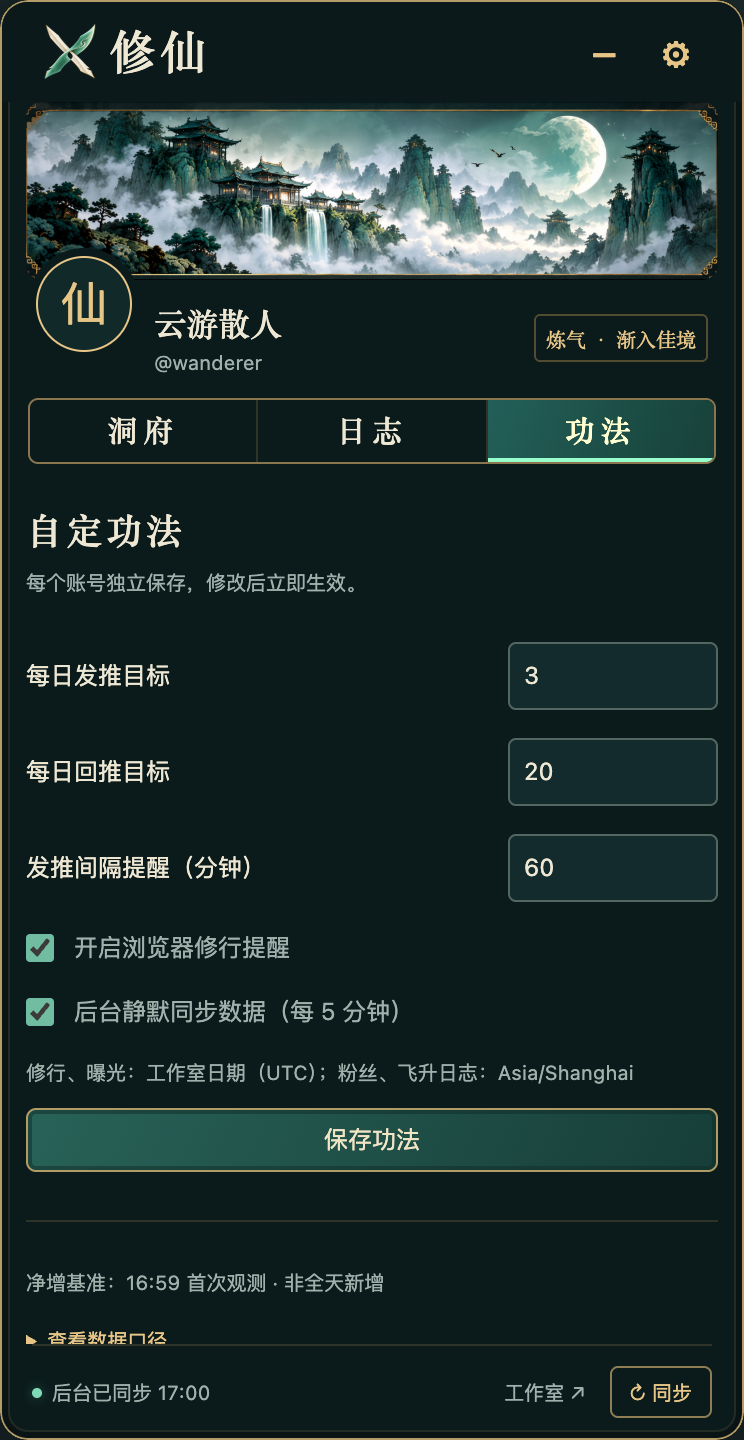
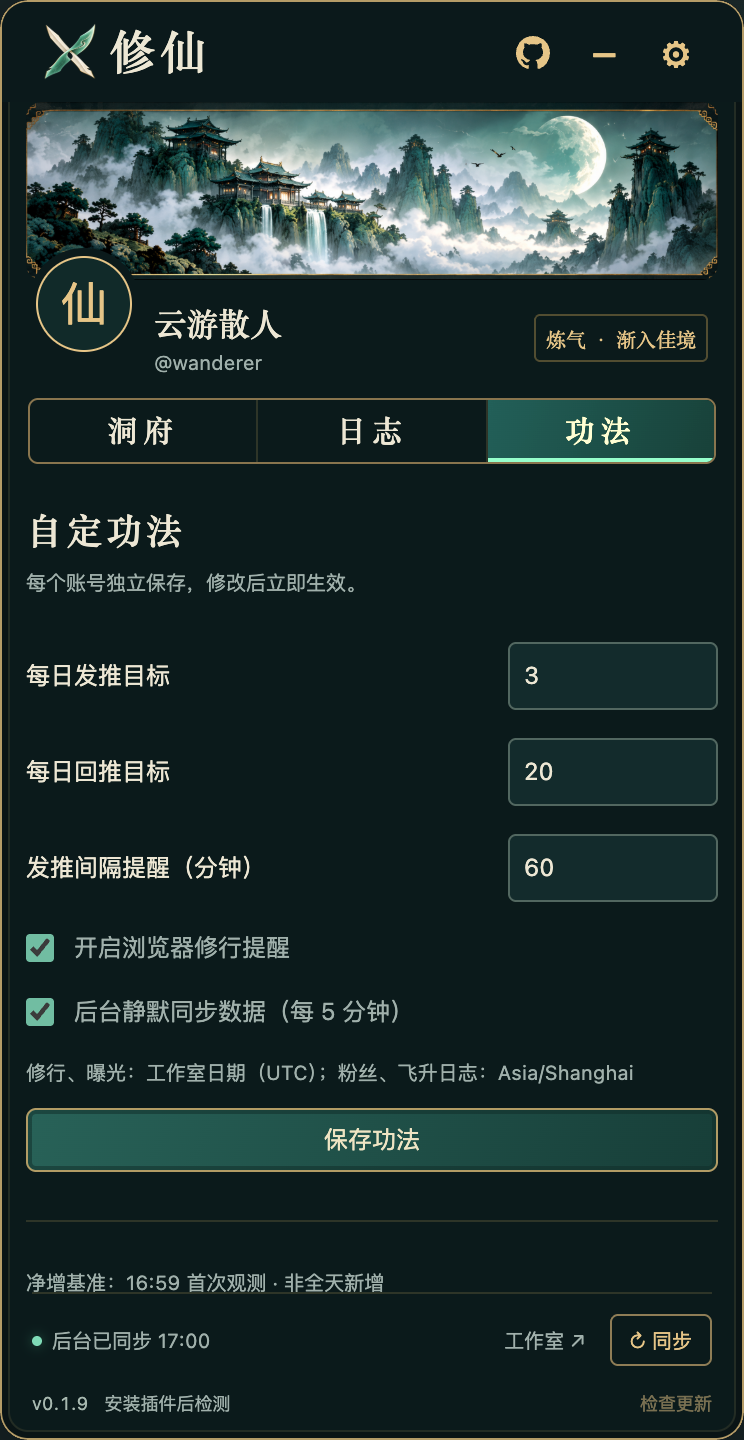
feat: add author GitHub link and automatic update checks

Changed region(s): [[0.6801, 0.9062, 0.9583, 1.0], [0.0309, 0.9062, 0.3091, 1.0], [0.6801, 0.0, 0.7419, 0.0625]]

diff --git a/extension/panel.js b/extension/panel.js
@@ -8,6 +8,24 @@
   let fitFrame=0,lastFitHeight=0;
   function fitPanel(){cancelAnimationFrame(fitFrame);fitFrame=requestAnimationFrame(()=>{const shell=$('shell'),main=$('scroll'),view=$(tab);if(!shell||!main||!view||shell.hidden)return;const style=getComputedStyle(main);const content=view.getBoundingClientRect().height+parseFloat(style.paddingTop)+parseFloat(style.paddingBottom);const fixed=shell.getBoundingClientRect().height-main.getBoundingClientRect().height;const height=Math.ceil(content+fixed);if(Math.abs(height-lastFitHeight)>1){lastFitHeight=height;tell({type:'resize',height});}});}
   const text=(id,value)=>{const el=$(id);if(el)el.textContent=value;};
+  let checkingUpdate=false,updateRequested=false;
+  const installedVersion=globalThis.chrome?.runtime?.getManifest?.().version||'0.1.9';
+  text('installed-version','v'+installedVersion);
+  async function checkUpdates(force=false){
+    if(checkingUpdate)return;
+    if(!globalThis.chrome?.runtime?.id){text('update-status','安装插件后检测');$('update-check').disabled=true;return;}
+    checkingUpdate=true;updateRequested=true;$('update-check').disabled=true;text('update-status','正在检查…');
+    try{
+      const response=await chrome.runtime.sendMessage({type:'checkUpdates',force});if(!response?.ok)throw new Error();
+      const r=response.data,available=r.status==='available';
+      text('installed-version','v'+r.currentVersion);$('update-download').hidden=!available;
+      if(available){$('update-download').href=r.downloadURL||r.releaseURL;text('update-download','v'+r.latestVersion+' ↗');$('update-download').title='下载新版，解压后替换原插件文件并重新加载';}
+      text('update-status',r.failed?(available?'上次发现新版':'检查失败，可重试'):available?'发现新版':r.status==='current'?'已是最新版本':'检查失败，可重试');
+      $('update-bar').classList.toggle('has-update',available);
+      $('update-check').title=r.checkedAt?'上次成功检查：'+new Date(r.checkedAt).toLocaleString('zh-CN'):'检查 GitHub 最新正式版本';
+    }catch{text('update-status','检查失败，可重试');}
+    finally{checkingUpdate=false;$('update-check').disabled=false;}
+  }
   const setProgress=(id,value,max)=>{const p=$(id);p.max=max;p.value=Math.min(value||0,max);};
   function render(data){
     state=data;$('locked').hidden=true;
@@ -62,11 +80,12 @@
     if((e.source!==null&&e.source!==parent)||e.data?.source!=='xian-parent-v1'||(channel?e.data.channel!==channel:false)||!(/^https:\/\/(x|twitter)\.com$/.test(e.origin)||/^http:\/\/(localhost|127\.0\.0\.1):\d+$/.test(e.origin)||(channel&&(e.origin==='null'||e.origin===location.origin))))return;
     parentOrigin=e.origin==='null'?null:e.origin;const m=e.data;
     if(m.type==='state')render(m.data);
-    else if(m.type==='collapsed'){const wasHidden=$('shell').hidden;$('shell').hidden=m.value;$('orb').hidden=!m.value;if(wasHidden&&!m.value){lastFitHeight=0;fitPanel();}}
+    else if(m.type==='collapsed'){const wasHidden=$('shell').hidden;$('shell').hidden=m.value;$('orb').hidden=!m.value;if(wasHidden&&!m.value){lastFitHeight=0;fitPanel();checkUpdates();}else if(!m.value&&!updateRequested)checkUpdates();}
     else if(m.type==='locked'){state=null;text('name','静候道友');text('handle','等待 X 登录账号');$('locked').hidden=false;$('avatar').hidden=true;$('avatar').removeAttribute('src');$('avatar-fallback').hidden=false;for(const id of ['total-views','followers','follower-delta'])text(id,'—');text('posts','—');text('replies','—');setProgress('posts-progress',0,3);setProgress('replies-progress',0,20);text('daily-qualified','待读取');text('qualified90','— / 50W 曝光');text('reward-percent','待读取');$('status-dot').classList.remove('active');text('verified-followers','— / 500');setProgress('reward-progress',0,500000);text('synced','等待账号确认');$('history-list').replaceChildren();select('home');for(const id of ['sync','reward-edit','snooze','scan-reward'])if($(id))$(id).disabled=true;timer();}
     else if(m.type==='error')notice(m.error,true);else if(m.type==='notice')notice(m.text);
   });
   document.querySelectorAll('nav button').forEach(b=>b.addEventListener('click',()=>select(b.dataset.tab)));
+  $('update-check').onclick=()=>checkUpdates(true);
   $('settings-tab').onclick=()=>select('settings');$('minimize').onclick=()=>tell({type:'toggle'});$('sync').onclick=()=>tell({type:'sync'});
   if($('scan-reward'))$('scan-reward').onclick=()=>tell({type:'scanReward'});
   if($('reward-edit'))$('reward-edit').onclick=()=>{select('reward');const r=state?.reward;for(const k of ['qualified90d','verifiedFollowers'])$('reward-form').elements.namedItem(k).value=r?.date===state?.today.date?r?.[k]??'':'';};
@@ -77,8 +96,10 @@
   $('reminder-write').onclick=()=>{if(state)state.reminder={...state.reminder,acknowledgedPost:state.lastPost};tell({type:'dismissReminder'});reminderVisible(false,null,0);};
   $('settings-form').onsubmit=e=>{e.preventDefault();if(!state)return notice('请先登录 X 并确认账号。',true);const f=new FormData(e.currentTarget),value={...state.settings};for(const k of ['posts','replies','reminderMinutes','dailyQualifiedGoal'])if(f.has(k))value[k]=Number(f.get(k));value.reminderEnabled=e.currentTarget.elements.reminderEnabled.checked;value.autoReward=e.currentTarget.elements.autoReward.checked;tell({type:'settings',value});};
   $('reward-form').onsubmit=e=>{e.preventDefault();if(!state)return;const f=new FormData(e.currentTarget);const value=Object.fromEntries(['qualified90d','verifiedFollowers'].map(k=>[k,f.get(k)===''?null:Number(f.get(k))]));tell({type:'reward',value});select('home');};
-  $('export').onclick=()=>{if(!state)return;const blob=new Blob([JSON.stringify({app:'X 修仙',version:'0.1.8',exportedAt:new Date().toISOString(),...state},null,2)],{type:'application/json'});const url=URL.createObjectURL(blob);const a=document.createElement('a');a.href=url;a.download=`X修仙-${state.profile.handle}-${state.today.date}.json`;a.click();setTimeout(()=>URL.revokeObjectURL(url),3000);};
-  function draggable(element,isOrb=false){let start=null,moved=false;element.addEventListener('pointerdown',e=>{if(e.target.closest('button')&&!isOrb)return;if(e.button!==0)return;start={x:e.screenX,y:e.screenY};moved=false;element.setPointerCapture(e.pointerId);tell({type:'drag-start',screenX:e.screenX,screenY:e.screenY});});element.addEventListener('pointermove',e=>{if(!start)return;if(Math.abs(e.screenX-start.x)+Math.abs(e.screenY-start.y)>4)moved=true;tell({type:'drag-move',screenX:e.screenX,screenY:e.screenY});});const end=()=>{if(!start)return;start=null;tell({type:'drag-end'});};element.addEventListener('pointerup',()=>{end();if(isOrb&&!moved)tell({type:'toggle'});});element.addEventListener('pointercancel',end);element.addEventListener('lostpointercapture',end);element.addEventListener('keydown',e=>{const d={ArrowLeft:[-10,0],ArrowRight:[10,0],ArrowUp:[0,-10],ArrowDown:[0,10]}[e.key];if(d){e.preventDefault();tell({type:'move-key',dx:d[0],dy:d[1]});}else if(isOrb&&(e.key==='Enter'||e.key===' ')){e.preventDefault();tell({type:'toggle'});}});}
+  $('export').onclick=()=>{if(!state)return;const blob=new Blob([JSON.stringify({app:'X 修仙',version:'0.1.9',exportedAt:new Date().toISOString(),...state},null,2)],{type:'application/json'});const url=URL.createObjectURL(blob);const a=document.createElement('a');a.href=url;a.download=`X修仙-${state.profile.handle}-${state.today.date}.json`;a.click();setTimeout(()=>URL.revokeObjectURL(url),3000);};
+  function draggable(element,isOrb=false){let start=null,moved=false;element.addEventListener('pointerdown',e=>{if(e.target.closest('button,a')&&!isOrb)return;if(e.button!==0)return;start={x:e.screenX,y:e.screenY};moved=false;element.setPointerCapture(e.pointerId);tell({type:'drag-start',screenX:e.screenX,screenY:e.screenY});});element.addEventListener('pointermove',e=>{if(!start)return;if(Math.abs(e.screenX-start.x)+Math.abs(e.screenY-start.y)>4)moved=true;tell({type:'drag-move',screenX:e.screenX,screenY:e.screenY});});const end=()=>{if(!start)return;start=null;tell({type:'drag-end'});};element.addEventListener('pointerup',()=>{end();if(isOrb&&!moved)tell({type:'toggle'});});element.addEventListener('pointercancel',end);element.addEventListener('lostpointercapture',end);element.addEventListener('keydown',e=>{const d={ArrowLeft:[-10,0],ArrowRight:[10,0],ArrowUp:[0,-10],ArrowDown:[0,10]}[e.key];if(d){e.preventDefault();tell({type:'move-key',dx:d[0],dy:d[1]});}else if(isOrb&&(e.key==='Enter'||e.key===' ')){e.preventDefault();tell({type:'toggle'});}});}
   draggable($('drag'));draggable($('orb'),true);$('avatar').onerror=()=>{$('avatar').hidden=true;$('avatar-fallback').hidden=false;};
-  setInterval(timer,1000);addEventListener('resize',fitPanel);document.addEventListener('toggle',fitPanel,true);document.fonts?.ready.then(fitPanel);tell({type:'ready'});fitPanel();
+  setInterval(timer,1000);setInterval(()=>{if(!document.hidden&&!$('shell').hidden)checkUpdates();},60*60*1000);
+  document.addEventListener('visibilitychange',()=>{if(!document.hidden&&!$('shell').hidden)checkUpdates();});
+  addEventListener('resize',fitPanel);document.addEventListener('toggle',fitPanel,true);document.fonts?.ready.then(fitPanel);tell({type:'ready'});fitPanel();
 })();

diff --git a/extension/panel.html b/extension/panel.html
@@ -1,7 +1,7 @@
 <!doctype html><html lang="zh-CN"><head><meta charset="utf-8"><meta name="viewport" content="width=device-width,initial-scale=1"><title>X 修仙 · 创作者洞府</title><link rel="stylesheet" href="panel.css"></head><body>
 <button id="orb" class="orb" aria-label="展开 X 修仙" hidden><img src="assets/icon128.png" alt="" draggable="false"></button>
 <div id="shell" class="shell">
-<header id="drag" tabindex="0" aria-label="拖动洞府，方向键移动位置"><div class="brand"><img class="title-x" src="assets/title-x-cutout.png" width="30" height="30" alt="X" draggable="false"> 修仙</div><div class="tools"><button id="minimize" title="收起洞府" aria-label="收起洞府">−</button><button id="settings-tab" title="设置功法" aria-label="设置功法">⚙</button></div></header>
+<header id="drag" tabindex="0" aria-label="拖动洞府，方向键移动位置"><div class="brand"><img class="title-x" src="assets/title-x-cutout.png" width="30" height="30" alt="X" draggable="false"> 修仙</div><div class="tools"><a id="author-github" class="author-github" href="https://github.com/zkilxx" target="_blank" rel="noopener noreferrer" aria-label="作者 GitHub：zkilxx" title="作者 GitHub · @zkilxx"><svg viewBox="0 0 16 16" aria-hidden="true"><path d="M6.766 11.328c-2.063-.25-3.516-1.734-3.516-3.656 0-.781.281-1.625.75-2.188-.203-.515-.172-1.609.063-2.062.625-.078 1.468.25 1.968.703.594-.187 1.219-.281 1.985-.281.765 0 1.39.094 1.953.265.484-.437 1.344-.765 1.969-.687.218.422.25 1.515.046 2.047.5.593.766 1.39.766 2.203 0 1.922-1.453 3.375-3.547 3.64.531.344.89 1.094.89 1.954v1.625c0 .468.391.734.86.547C13.781 14.359 16 11.53 16 8.03 16 3.61 12.406 0 7.984 0 3.563 0 0 3.61 0 8.031a7.88 7.88 0 0 0 5.172 7.422c.422.156.828-.125.828-.547v-1.25c-.219.094-.5.156-.75.156-1.031 0-1.64-.562-2.078-1.609-.172-.422-.36-.672-.719-.719-.187-.015-.25-.093-.25-.187 0-.188.313-.328.625-.328.453 0 .844.281 1.25.86.313.452.64.655 1.031.655s.641-.14 1-.5c.266-.265.47-.5.657-.656"></path></svg></a><button id="minimize" title="收起洞府" aria-label="收起洞府">−</button><button id="settings-tab" title="设置功法" aria-label="设置功法">⚙</button></div></header>
 <svg class="landscape" viewBox="0 72 2172 560" preserveAspectRatio="xMidYMid meet" aria-hidden="true"><image href="assets/mountain-banner-restored.png" width="2172" height="724"></image></svg>
 <div class="identity"><div class="avatar"><img id="avatar" alt="" hidden><span id="avatar-fallback">仙</span></div><div class="identity-copy"><strong id="name">静候道友</strong><span id="handle">等待 X 登录账号</span></div><span id="realm" class="realm">初入仙途</span></div>
 <nav aria-label="洞府导航"><button class="selected" data-tab="home">洞府</button><button data-tab="history">日志</button><button data-tab="settings">功法</button></nav>
@@ -20,5 +20,5 @@
 <section id="history" class="view" hidden><div class="heading"><h2>修行日志</h2><button id="export" class="text-button">导出 JSON</button></div><label class="date-filter">查看日期<input id="history-date" type="date"></label><p class="hint">从启用之日起存档 · 无记录日期不会补零</p><div id="history-list" class="history-list"></div><p class="hint">发布和曝光沿用工作室日期；粉丝与飞升净增按本地记录日保存。工作室返回的历史统计可补齐，未返回的时段保留空白。</p></section>
 <section id="settings" class="view" hidden><h2>自定功法</h2><p class="hint">每个账号独立保存，修改后立即生效。</p><form id="settings-form"><label>每日发推目标<input name="posts" type="number" min="1" max="1000" required></label><label>每日回推目标<input name="replies" type="number" min="1" max="10000" required></label><label>发推间隔提醒（分钟）<input name="reminderMinutes" type="number" min="1" max="1440" required></label><label class="check"><input name="reminderEnabled" type="checkbox">开启浏览器修行提醒</label><label class="check"><input name="autoReward" type="checkbox">后台静默同步数据（每 5 分钟）</label><p id="timezone" class="hint">日界线：Asia/Shanghai</p><button class="jade-button" type="submit">保存功法</button></form><div class="setting-note"><p id="followers-hint" class="hint">粉丝净增从今日首次读取开始计算</p><details><summary>查看数据口径</summary><p>发推和回推按工作室日期（UTC）对账；发推为原创与引用发布量之和，回推为自己的回复发布量。发布成功即时记数，每 5 分钟与曝光、粉丝和奖励一起后台同步，用工作室总数校正并补齐其他设备的发布；失败和取消不计。新发布遇到工作室延迟时暂时保留，避免数字立刻回退。天地灵气读取工作室 Account overview 中当天的 Impressions 总曝光，包含认证与未认证用户；工作室没有提供可靠的主推 / 回复曝光拆分，因此只显示总曝光。日期沿用工作室图表的 UTC 日桶，每 5 分钟同步，未读取时保留空白。粉丝净增为今日首次观测后的净变化，无法区分新增和取关。飞升直接读取 X 原创内容奖励页面的近 90 天进度，按最新值减前日最后记录计算每日净增；90 天滚动值含旧曝光到期扣减。页面缩写数值只可计算约数，不代表实际新产生的全部合格曝光。</p><p>发布成功时在后台记录；每 5 分钟由 Chrome 静默读取工作室、奖励页和粉丝资料，临时后台标签不会激活，完成后自动关闭；发推和回复以 X 发布成功的返回记录为准；同一帖子 ID 不重复累加。浏览器运行且 X 登录态有效时可后台同步；已设提醒可由浏览器发出，浏览器关闭时可能延迟。</p></details><h3>飞升规则</h3><p>每日目标是个人计划。X 官方入门门槛包括近 90 天 50 万认证用户主页曝光、500 位认证粉丝；回复曝光不计入。达到这两项也不代表获得收益资格。</p><a href="https://help.x.com/en/using-x/original-content-rewards" target="_blank" rel="noopener">X 官方原创内容奖励说明 ↗</a></div></section>
 <section id="reward" class="view" hidden><h2>记录飞升进境</h2><p class="hint">自动读取失败时，可用官方页面显示的进度校准。手动校准也会触发每日差值记录。</p><form id="reward-form"><label>近 90 天认证用户主页曝光<input name="qualified90d" type="number" min="0" step="1" required></label><label>认证粉丝数量<input name="verifiedFollowers" type="number" min="0" step="1"></label><button class="jade-button" type="submit">保存今日进境</button></form><p class="hint">例如官方显示 133.3K，自动读取会记录为约 133,300，并保存原始显示精度。普通浏览量和全部粉丝总数不可混填。</p></section>
-</main><div id="reminder-alert" class="reminder-alert" role="alertdialog" aria-modal="true" aria-labelledby="reminder-title" hidden><span class="reminder-symbol" aria-hidden="true">✦</span><h2 id="reminder-title">该撰写功法了</h2><p id="reminder-message">修行时间已到，写下你的新想法。</p><a id="reminder-write" class="jade-button" href="https://x.com/compose/post" target="_blank" rel="noopener">去撰写</a><button id="reminder-snooze" class="jade-button">15 分钟后提醒</button><button id="reminder-dismiss" class="text-button">知道了</button></div><footer><span><i id="status-dot"></i><span id="synced">等待账号确认</span></span><div class="footer-actions"><a href="https://x.com/i/account_analytics/overview" target="_blank" rel="noopener" aria-label="查看创作者工作室">工作室 ↗</a><button id="sync" aria-label="立即同步全部数据">↻ 同步</button></div></footer>
+</main><div id="reminder-alert" class="reminder-alert" role="alertdialog" aria-modal="true" aria-labelledby="reminder-title" hidden><span class="reminder-symbol" aria-hidden="true">✦</span><h2 id="reminder-title">该撰写功法了</h2><p id="reminder-message">修行时间已到，写下你的新想法。</p><a id="reminder-write" class="jade-button" href="https://x.com/compose/post" target="_blank" rel="noopener">去撰写</a><button id="reminder-snooze" class="jade-button">15 分钟后提醒</button><button id="reminder-dismiss" class="text-button">知道了</button></div><footer><span><i id="status-dot"></i><span id="synced">等待账号确认</span></span><div class="footer-actions"><a href="https://x.com/i/account_analytics/overview" target="_blank" rel="noopener" aria-label="查看创作者工作室">工作室 ↗</a><button id="sync" aria-label="立即同步全部数据">↻ 同步</button></div></footer><div id="update-bar" class="update-bar" aria-label="插件版本与更新"><span id="installed-version">v0.1.9</span><span id="update-status" role="status" aria-live="polite">自动检测更新</span><a id="update-download" target="_blank" rel="noopener noreferrer" hidden>下载新版 ↗</a><button id="update-check" class="text-button" type="button">检查更新</button></div>
 </div><script src="core.js"></script><script src="panel.js"></script></body></html>

diff --git a/extension/updates.js b/extension/updates.js
@@ -1,0 +1,55 @@
+/* Public Release metadata only; no account data is sent to GitHub. */
+(() => {
+  'use strict';
+  const repository='https://github.com/zkilxx/x-xiuxian';
+  const endpoint='https://api.github.com/repos/zkilxx/x-xiuxian/releases/latest';
+  const cacheKey='xianUpdateCheck',interval=6*60*60*1000,retryInterval=15*60*1000;
+  let pending;
+  function versionParts(value){
+    if(typeof value!=='string'||!/^v?\d+(?:\.\d+){1,3}$/.test(value))return null;
+    const parts=value.replace(/^v/,'').split('.').map(Number);
+    return parts.every(Number.isSafeInteger)?parts:null;
+  }
+  function isNewerVersion(candidate,current){
+    const a=versionParts(candidate),b=versionParts(current);if(!a||!b)return false;
+    for(let i=0;i<4;i++)if((a[i]||0)!==(b[i]||0))return(a[i]||0)>(b[i]||0);
+    return false;
+  }
+  function releaseInfo(value){
+    if(!value||value.draft||value.prerelease||!versionParts(value.tag))return null;
+    const version=value.tag.replace(/^v/,''),releaseURL=`${repository}/releases/tag/${encodeURIComponent(value.tag)}`;
+    let downloadURL='';
+    try{
+      const url=new URL(value.downloadURL);
+      if(url.origin==='https://github.com'&&!url.username&&!url.password&&!url.search&&!url.hash
+        &&url.pathname===`/zkilxx/x-xiuxian/releases/download/${encodeURIComponent(value.tag)}/x-xiuxian-v${version}.zip`)downloadURL=url.href;
+    }catch{}
+    return{version,releaseURL,downloadURL};
+  }
+  async function check(force){
+    const currentVersion=chrome.runtime.getManifest().version,now=Date.now();let cached;
+    try{cached=(await chrome.storage.local.get(cacheKey))[cacheKey];}catch{}
+    const info=releaseInfo(cached?.release);
+    const result=(release,failed=false,checkedAt=null)=>({currentVersion,latestVersion:release?.version||'',
+      status:release?(isNewerVersion(release.version,currentVersion)?'available':'current'):'error',
+      releaseURL:release?.releaseURL||`${repository}/releases/latest`,downloadURL:release?.downloadURL||'',checkedAt,failed});
+    const recent=(time,age)=>Number.isFinite(time)&&time>0&&now>=time&&now-time<age;
+    if(!force&&(info||cached?.failed)&&recent(cached.attemptedAt,cached.failed?retryInterval:interval))return result(info,Boolean(cached.failed),cached.checkedAt);
+    try{
+      const response=await fetch(endpoint,{credentials:'omit',referrerPolicy:'no-referrer',redirect:'error',cache:'no-store',
+        headers:{Accept:'application/vnd.github+json'},signal:AbortSignal.timeout(8000)});
+      if(!response.ok)throw new Error('Release check failed');
+      const data=await response.json(),version=typeof data.tag_name==='string'?data.tag_name.replace(/^v/,''):'';
+      const asset=Array.isArray(data.assets)?data.assets.find(a=>a.name===`x-xiuxian-v${version}.zip`&&a.state==='uploaded'):null;
+      const release={tag:data.tag_name,draft:data.draft,prerelease:data.prerelease,downloadURL:asset?.browser_download_url};
+      const latest=releaseInfo(release);if(!latest)throw new Error('Invalid release');
+      try{await chrome.storage.local.set({[cacheKey]:{release,attemptedAt:now,checkedAt:now,failed:false}});}catch{}
+      return result(latest,false,now);
+    }catch{
+      try{await chrome.storage.local.set({[cacheKey]:{release:cached?.release,attemptedAt:now,checkedAt:cached?.checkedAt,failed:true}});}catch{}
+      return result(info,true,cached?.checkedAt||null);
+    }
+  }
+  function checkForUpdates(force=false){if(pending)return pending;pending=check(force).finally(()=>{pending=null;});return pending;}
+  globalThis.XianUpdates={checkForUpdates,isNewerVersion,releaseInfo};
+})();

diff --git a/extension/background.js b/extension/background.js
@@ -1,6 +1,6 @@
 'use strict';
-importScripts('core.js');
-chrome.storage.local.set({runtimeBuild:'20261026-layout-polish-v7'});
+importScripts('core.js','updates.js');
+chrome.storage.local.set({runtimeBuild:'20261026-github-updates-v9'});
 const C = XianCore, sessions = new Map();
 let queue = Promise.resolve();
 const serial = fn => { const task = queue.then(fn); queue = task.catch(()=>{}); return task; };
@@ -98,6 +98,10 @@ async function process(message,sender) {
   return C.snapshot(a);
 }
 chrome.runtime.onMessage.addListener((message,sender,sendResponse) => {
+  if(message?.type==='checkUpdates'){
+    if(sender.id!==chrome.runtime.id||sender.url?.split('#')[0]!==chrome.runtime.getURL('panel.html')){sendResponse({ok:false,error:'更新检测仅限插件面板。'});return false;}
+    XianUpdates.checkForUpdates(message.force===true).then(data=>sendResponse({ok:true,data})).catch(()=>sendResponse({ok:false,error:'暂时无法检查更新。'}));return true;
+  }
   serial(()=>process(message,sender)).then(data=>sendResponse({ok:true,data})).catch(error=>sendResponse({ok:false,error:error.message})); return true;
 });
 chrome.tabs.onRemoved.addListener(id=>serial(async()=>{sessions.delete(id);await chrome.storage.session.set({['identity:'+id]:null});const sync=(await chrome.storage.session.get('rewardSync')).rewardSync,job=sync?.jobs[id];if(job){delete sync.jobs[id];await chrome.storage.session.set({rewardSync:sync});const a=await read(job.handle);if(a){a.sync={...a.sync,running:false,complete:false,at:Date.now()};await save(a);}}}));

diff --git a/extension/panel.css b/extension/panel.css
@@ -21,3 +21,7 @@ html,body{width:100%;height:100%;margin:0;overflow:hidden}
 .orb:focus-visible{outline:2px solid var(--jade);outline-offset:-3px}
 
 .brand .title-x{display:block;width:30px;height:30px;object-fit:contain;flex-shrink:0;pointer-events:none}
+
+/* Author link and quiet update status keep fixed dimensions in every state. */
+.tools{flex-shrink:0}.tools .author-github{width:28px;height:28px;display:grid;place-items:center;color:var(--gold);border-radius:5px;cursor:pointer}.author-github svg{display:block;width:17px;height:17px;fill:currentColor}.tools .author-github:hover{background:#e6c58712;text-decoration:none}.tools .author-github:focus-visible{outline:2px solid var(--jade)}
+.update-bar{height:26px;min-height:26px;flex-shrink:0;display:flex;align-items:center;gap:8px;margin:0 15px;padding-bottom:8px;font-size:9px;color:var(--muted);white-space:nowrap}.update-bar #installed-version{color:#a8b9b0;font-variant-numeric:tabular-nums}.update-bar #update-status{flex:1;min-width:0;overflow:hidden;text-overflow:ellipsis}.update-bar a{color:var(--jade);font-size:10px}.update-bar button{font-size:9px;flex-shrink:0;line-height:18px}.update-bar.has-update #update-status{color:var(--gold)}.reminder-alert{bottom:70px}#notice{bottom:70px}

diff --git a/scripts/package.py b/scripts/package.py
@@ -3,7 +3,7 @@ import json
 from zipfile import ZipFile, ZIP_DEFLATED
 root=Path(__file__).resolve().parents[1]
 version=json.loads((root/'extension'/'manifest.json').read_text())['version']
-out=root/'release'/f'X修仙-v{version}.zip'
+out=root/'release'/f'x-xiuxian-v{version}.zip'
 out.parent.mkdir(parents=True,exist_ok=True)
 with ZipFile(out,'w',ZIP_DEFLATED) as z:
     for file in sorted((root/'extension').rglob('*')):

diff --git a/README.en.md b/README.en.md
@@ -5,7 +5,7 @@
   <h1>X Xiuxian · Creator Retreat</h1>
   <p>A movable cultivation-inspired dashboard for your daily writing and X creator stats.</p>
   <p>
-    <img src="https://img.shields.io/badge/version-0.1.8-173e34" alt="Version 0.1.8">
+    <img src="https://img.shields.io/badge/version-0.1.9-173e34" alt="Version 0.1.9">
     <img src="https://img.shields.io/badge/Chrome-116%2B-4285F4?logo=googlechrome&logoColor=white" alt="Chrome 116+">
     <img src="https://img.shields.io/badge/Manifest-V3-6d7772" alt="Manifest V3">
     <img src="https://img.shields.io/badge/Data-Local_storage-173e34" alt="Local data storage">
@@ -33,6 +33,8 @@ No API key and no build step. Read the X account signed in to your browser, set 
 | Ascension progress | A 500K progress bar for verified home-timeline impressions over the last 90 days, with daily net changes and individual readings |
 | Background sync | Rewards → account analytics → follower profile, using an inactive temporary tab; manual sync is available in the footer |
 | History | Daily records, date filtering, reward and count adjustments, and JSON export |
+| Author GitHub | Open the author profile from the GitHub icon in the header |
+| Update checks | Check the latest stable GitHub Release when opening the panel, with a six-hour cache and a manual check button |
 | Local storage | No custom backend, telemetry, separate sign-in or API key |
 
 ## Interface
@@ -53,7 +55,7 @@ The panoramic landscape preserves the full composition, with the avatar overlapp
 
 Install as an unpacked Chrome extension. It is not currently listed in the Chrome Web Store.
 
-1. Open [Releases](https://github.com/zkilxx/x-xiuxian/releases/latest), download **`x-xiuxian-v0.1.8.zip`** and extract it.
+1. Open [Releases](https://github.com/zkilxx/x-xiuxian/releases/latest), download **`x-xiuxian-v0.1.9.zip`** and extract it.
 2. Open `chrome://extensions` and turn on **Developer mode**.
 3. Click **Load unpacked** and select the extracted **X修仙** folder containing `manifest.json`.
 4. Sign in to [X](https://x.com) and refresh the page to display the floating panel.
@@ -74,11 +76,19 @@ git clone https://github.com/zkilxx/x-xiuxian.git
 cd x-xiuxian
 ```
 
-To update, replace files in your existing extension folder, click **Reload** in `chrome://extensions`, then refresh X. Keep the existing installation to retain local records. Updates are downloaded and applied manually in this version.
+To update, replace files in your existing extension folder, click **Reload** in `chrome://extensions`, then refresh X. Keep the existing installation to retain local records. New versions are detected automatically; downloading and replacing files remain manual.
 
 Each Release includes `SHA256SUMS.txt` for package verification.
 
 ## Usage
+
+### Author and updates
+
+The GitHub icon in the header opens the author profile, [@zkilxx](https://github.com/zkilxx). The footer displays your installed version and update status. Opening or expanding the panel checks the latest stable GitHub Release, with a six-hour cache. An open panel revisits the cache hourly and when visible again; click **检查更新** to force a fresh check.
+
+When an update is available, a version link downloads its ZIP. Replace files in the existing folder and reload as described above. Failed checks retain the last known release and show a retry message instead of claiming you are up to date; automatic retries use a 15-minute backoff. The status row keeps a fixed height.
+
+Only public Release metadata is requested. No account, goal or history data is sent, and no download or installation starts automatically. Install 0.1.9 manually once to enable checks for future versions.
 
 ### Set daily goals
 
@@ -131,6 +141,7 @@ There is no custom backend, telemetry or third-party AI request. The extension d
 | `storage` | Save local profiles, settings and records |
 | `alarms` | Schedule sync and writing reminders |
 | `notifications` | Show system notifications when reminders are due |
+| `api.github.com` | Read this repository's public Release version and package links |
 | `x.com`, `twitter.com` | Display the panel, observe publishing success and read your creator data |
 
 Personal verification records, account screenshots and earlier design candidates remain local and are not included in the source repository or package.
@@ -152,10 +163,10 @@ Core development requires Node.js 20+ and Python 3. The extension uses plain Jav
 npm test                # Data, publishing events and background flow tests
 npm run check           # Rebuild; verify scripts, manifest and assets
 npm run preview         # http://127.0.0.1:4178/demo.html
-npm run package         # release/X修仙-v0.1.8.zip
+npm run package         # release/x-xiuxian-v0.1.9.zip
 ```
 
-All **31 regression tests pass**. Coverage includes account isolation, deduplication, successful and failed publishing, UTC boundaries, impression backfill, publishing reconciliation, lag protection, downward corrections, reward deltas, follower changes, background jobs and reminders. Tests use simulated responses; they do not establish live compatibility after every X update.
+All **40 regression tests pass**. Coverage includes account isolation, deduplication, successful and failed publishing, UTC boundaries, impression backfill, publishing reconciliation, lag protection, downward corrections, reward deltas, follower changes, background jobs and reminders. Tests use simulated responses; they do not establish live compatibility after every X update.
 
 The demo page uses fictional data separate from real account storage and is excluded from the package. Documentation screenshots render the actual panel in an isolated headless browser with a fixed date and local requests only, without signing in to X:
 
@@ -163,13 +174,15 @@ The demo page uses fictional data separate from real account storage and is excl
 npm ci
 npx playwright install chromium
 npm run docs:screenshots
+npm run test:ui          # Real extension, isolated profile, mocked X / GitHub responses
 ```
 
-Playwright is a documentation-only development dependency. The screenshot script does not read your existing Chrome profile or automatically delete local files.
+Playwright is a development dependency for screenshots and UI checks, not an extension runtime dependency. The real-extension flow covers the author link, automatic and manual checks, available updates, offline errors, caching, collapse/expand and a compact viewport. The screenshot script does not read your existing Chrome profile or automatically delete local files.
 
 ```text
 extension/                    Loadable Chrome extension
   background.js               Background sync, account storage and notifications
+  updates.js                  Release checks, version comparison and caching
   bridge.js                   Publishing events and X response observation
   content.js / feedback.js    Panel injection, dragging and reply +1
   core.js                     Counts, dates, reconciliation and daily deltas
@@ -186,3 +199,5 @@ design/                       Selected masters and native image-generation promp
 ```
 
 Visual assets were created with native image generation; transparent logos retain a real alpha channel. See the [design notes](docs/design.md) and [asset index](design/README.md), both in Chinese.
+
+The GitHub mark comes from [Primer Octicons](https://github.com/primer/octicons). Its MIT notice is included in [THIRD_PARTY_NOTICES.txt](extension/THIRD_PARTY_NOTICES.txt).

diff --git a/README.md b/README.md
@@ -5,7 +5,7 @@
   <h1>X 修仙 · 创作者洞府</h1>
   <p>在 X 页面里，把每日创作、交流与数据增长，收进一座修仙洞府。</p>
   <p>
-    <img src="https://img.shields.io/badge/version-0.1.8-173e34" alt="Version 0.1.8">
+    <img src="https://img.shields.io/badge/version-0.1.9-173e34" alt="Version 0.1.9">
     <img src="https://img.shields.io/badge/Chrome-116%2B-4285F4?logo=googlechrome&logoColor=white" alt="Chrome 116+">
     <img src="https://img.shields.io/badge/Manifest-V3-6d7772" alt="Manifest V3">
     <img src="https://img.shields.io/badge/数据-本机保存-173e34" alt="数据本机保存">
@@ -33,6 +33,8 @@
 | 飞升进度 | 近 90 天认证用户主页曝光的 50W 总进度条，记录每日净增及每次数值变动 |
 | 后台同步 | 奖励 → 工作室分析 → 粉丝资料依次静默读取；不切换当前标签，底部可手动提前同步 |
 | 修行日志 | 查看每天的任务、曝光、粉丝与奖励记录，支持日期筛选、变动明细及 JSON 导出 |
+| 作者 GitHub | 右上角 GitHub 按钮直达作者主页 |
+| 更新检测 | 打开面板自动检查 GitHub 最新正式 Release，缓存 6 小时；底部可手动检查，新版提供下载入口 |
 | 本机保存 | 无自建后端，无埋点，不需要额外登录或填写 API Key |
 
 ## 界面预览
@@ -53,7 +55,7 @@
 
 目前通过 Chrome 的「加载已解压的扩展程序」安装，尚未上架 Chrome 应用商店。
 
-1. 前往 [Releases](https://github.com/zkilxx/x-xiuxian/releases/latest)，下载 **`x-xiuxian-v0.1.8.zip`** 并解压。
+1. 前往 [Releases](https://github.com/zkilxx/x-xiuxian/releases/latest)，下载 **`x-xiuxian-v0.1.9.zip`** 并解压。
 2. 在 Chrome 地址栏输入 `chrome://extensions`，开启右上角「开发者模式」。
 3. 点击「加载已解压的扩展程序」，选择解压后的 **X修仙** 文件夹，里面应有 `manifest.json`。
 4. 打开并登录 [X](https://x.com)，刷新页面，即可看到悬浮洞府。
@@ -74,11 +76,19 @@ git clone https://github.com/zkilxx/x-xiuxian.git
 cd x-xiuxian
 ```
 
-更新时，用新版文件替换原扩展目录，在 `chrome://extensions` 点击 X 修仙的「重新加载」，再刷新 X。无需卸载旧版；本机记录随原扩展保留。当前版本使用手动下载与更新。
+更新时，用新版文件替换原扩展目录，在 `chrome://extensions` 点击 X 修仙的「重新加载」，再刷新 X。无需卸载旧版；本机记录随原扩展保留。插件会自动检测新版，下载和替换文件仍由你确认。
 
 Release 同时提供 `SHA256SUMS.txt`，供校验安装包。
 
 ## 使用
+
+### 作者与插件更新
+
+右上角 GitHub 图标打开作者 [@zkilxx](https://github.com/zkilxx) 的主页。底部显示当前版本与更新状态；打开或重新展开面板时自动检查 GitHub 最新正式 Release，成功结果缓存 6 小时。面板保持打开时每小时复核缓存，回到页面时也会检查；可点击「检查更新」立即重试。
+
+发现新版后，底部显示新版本号与下载入口；点击后下载 ZIP，按上方方法替换原目录并重新加载。检测失败会提示重试，保留上次发现的版本，不会把失败显示为「已是最新版本」。自动失败重试间隔为 15 分钟。状态栏高度固定，不挤动面板。
+
+更新检测只查询 GitHub 公开 Release，不发送账号、任务或修行记录，不自动下载安装。首次获得这项功能需要手动安装 0.1.9，之后即可自动检测后续版本。
 
 ### 设置每日修行
 
@@ -131,6 +141,7 @@ Release 同时提供 `SHA256SUMS.txt`，供校验安装包。
 | `storage` | 保存本机账号、设置与修行记录 |
 | `alarms` | 定时同步与撰写提醒 |
 | `notifications` | 到时系统通知 |
+| `api.github.com` | 查询本仓库公开 Release 的版本与安装包链接 |
 | `x.com`、`twitter.com` | 在 X 显示面板、观察发布成功事件、读取本人创作者数据 |
 
 账号验证截图、个人数据记录和旧设计候选仅保留在本地，不包含在源码或安装包中。
@@ -152,10 +163,10 @@ Release 同时提供 `SHA256SUMS.txt`，供校验安装包。
 npm test                # 数据、发布事件与后台流程测试
 npm run check           # 重新构建，检查脚本、清单与资源
 npm run preview         # http://127.0.0.1:4178/demo.html
-npm run package         # release/X修仙-v0.1.8.zip
+npm run package         # release/x-xiuxian-v0.1.9.zip
 ```
 
-当前 **31 项回归测试通过**，覆盖账号隔离、事件去重、成功 / 失败发布、工作室日期与曝光回填、发推回推对账、延迟保护、官方向下校正、奖励净增、粉丝净变、后台任务与提醒。测试使用模拟响应，不代表每次 X 页面更新后的线上行为均已实测。
+当前 **40 项回归测试通过**，覆盖账号隔离、事件去重、成功 / 失败发布、工作室日期与曝光回填、发推回推对账、延迟保护、官方向下校正、奖励净增、粉丝净变、后台任务与提醒。测试使用模拟响应，不代表每次 X 页面更新后的线上行为均已实测。
 
 演示页使用虚构资料，与真实账号存储独立；打包时排除。文档截图由实际面板在独立无头浏览器中生成，固定演示日期，仅允许本地请求，无需登录 X：
 
@@ -163,13 +174,15 @@ npm run package         # release/X修仙-v0.1.8.zip
 npm ci
 npx playwright install chromium
 npm run docs:screenshots
+npm run test:ui          # 独立临时浏览器加载真实扩展，模拟 X / GitHub 响应
 ```
 
-Playwright 仅为文档截图开发依赖，不参与扩展运行。截图脚本不会读取现有 Chrome 配置或主动删除本地文件。
+Playwright 用于文档截图和界面回归验证，不参与扩展运行。真实扩展验证覆盖作者入口、自动与手动检查、新版本提示、离线错误、缓存复用、收起展开和窄窗口布局。截图脚本不会读取现有 Chrome 配置或主动删除本地文件。
 
 ```text
 extension/                    可直接加载的 Chrome 扩展
   background.js               后台同步、账号存储与通知
+  updates.js                  Release 检测、版本比较与缓存
   bridge.js                   X 页面发布事件与数据响应读取
   content.js / feedback.js    面板注入、拖动与回复 +1
   core.js                     计数、日期、对账与每日净增规则
@@ -186,3 +199,5 @@ design/                       当前选用母版与原生生图提示词
 ```
 
 视觉素材由原生生图工具制作，透明 Logo 保留真实 Alpha。见 [设计说明](docs/design.md) 与 [素材索引](design/README.md)。
+
+GitHub 标记来自 [Primer Octicons](https://github.com/primer/octicons)，MIT 授权说明保存在 [THIRD_PARTY_NOTICES.txt](extension/THIRD_PARTY_NOTICES.txt)。
